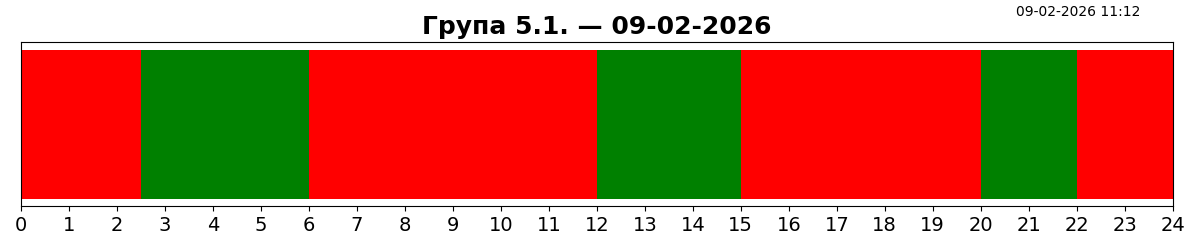
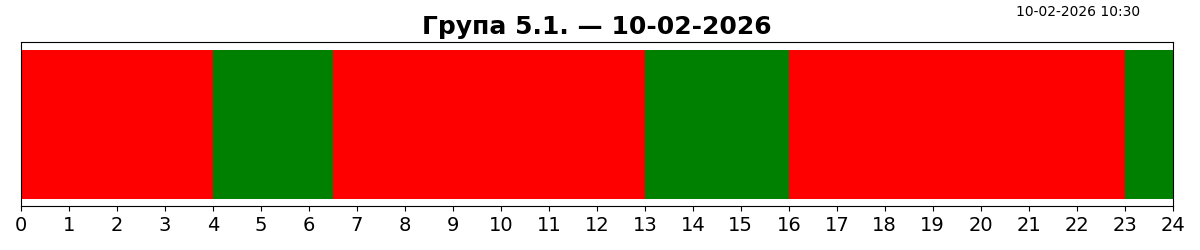
minor changes for logging

diff --git a/main.py b/main.py
@@ -1,13 +1,12 @@
 from datetime import datetime, timedelta
 import hashlib
 from scraper import fetch_group_lines
-from alerts import parse_ranges, send_alerts
 from plotter import generate_plot
 from telegramer import send_telegram
 from state import load_state, save_state
 from alerts import parse_ranges, send_alerts_10min_window
 
-print("RUN:", datetime.now().isoformat())
+print("RUN START: ", datetime.now().strftime("%Y-%m-%d %H:%M:%S"))
 
 tracked_text = fetch_group_lines()
 
@@ -24,6 +23,7 @@ schedule_dates = [today + timedelta(days=i) for i in range(len(lines))]
 
 # alerts
 for line, sched_date in zip(lines, schedule_dates):
+    #print(line)
     send_alerts_10min_window(parse_ranges(line), sched_date)
 
 # change detection
@@ -35,4 +35,6 @@ if old_hash != current_hash:
     send_telegram(tracked_text, "data/schedule.png")
     save_state(current_hash)
 else:
-    print("no changes sent")
+    print(f"            no changes sent")
+
+print(f"RUN END:    {datetime.now().strftime("%Y-%m-%d %H:%M:%S")}\n")

diff --git a/alerts.py b/alerts.py
@@ -1,6 +1,8 @@
-from datetime import datetime, timedelta, date
+from datetime import datetime, timedelta, date, time
 from telegramer import send_telegram
 from sent_alerts import was_sent, mark_sent
+import re
+
 
 def _dt_from_minutes(d: date, minutes: int) -> datetime:
     return datetime.combine(d, datetime.min.time()) + timedelta(minutes=minutes)
@@ -78,3 +80,27 @@ def _maybe_send_event(kind, event_dt, until_dt, now, template):
 
         send_telegram(msg)
         mark_sent(event_id)
+
+def _to_minutes(t: str) -> int:
+    h, m = map(int, t.split(":"))
+    if h == 24:
+        return 24 * 60
+    return h * 60 + m
+
+
+def parse_ranges(line: str):
+    line = (line or "").strip()
+    if not line:
+        return []
+
+    matches = re.findall(
+        r"з\s*(\d{1,2}:\d{2})\s*до\s*(\d{1,2}:\d{2})",
+        line,
+        flags=re.IGNORECASE
+    )
+
+    ranges = []
+    for start_str, end_str in matches:
+        ranges.append((_to_minutes(start_str), _to_minutes(end_str)))
+
+    return ranges

diff --git a/telegramer.py b/telegramer.py
@@ -3,7 +3,7 @@ from datetime import datetime
 from config import BOT_TOKEN, CHAT_IDS
 
 def send_telegram(msg=None, photo_path=None):
-    now = datetime.now().strftime("%Y-%m-%d %H:%M:%S")
+    
 
     try:
         if photo_path:
@@ -24,6 +24,6 @@ def send_telegram(msg=None, photo_path=None):
                     data={"chat_id": chat_id, "text": msg or ""},
                     timeout=15
                 )
-        print(now, msg)
+        print(f"{datetime.now().strftime("%Y-%m-%d %H:%M:%S")}:         ", msg)
     except requests.exceptions.RequestException as e:
-        print(now, "Telegram error:", e)
+        print(datetime.now().strftime("%Y-%m-%d %H:%M:%S"), "Telegram error:", e)
